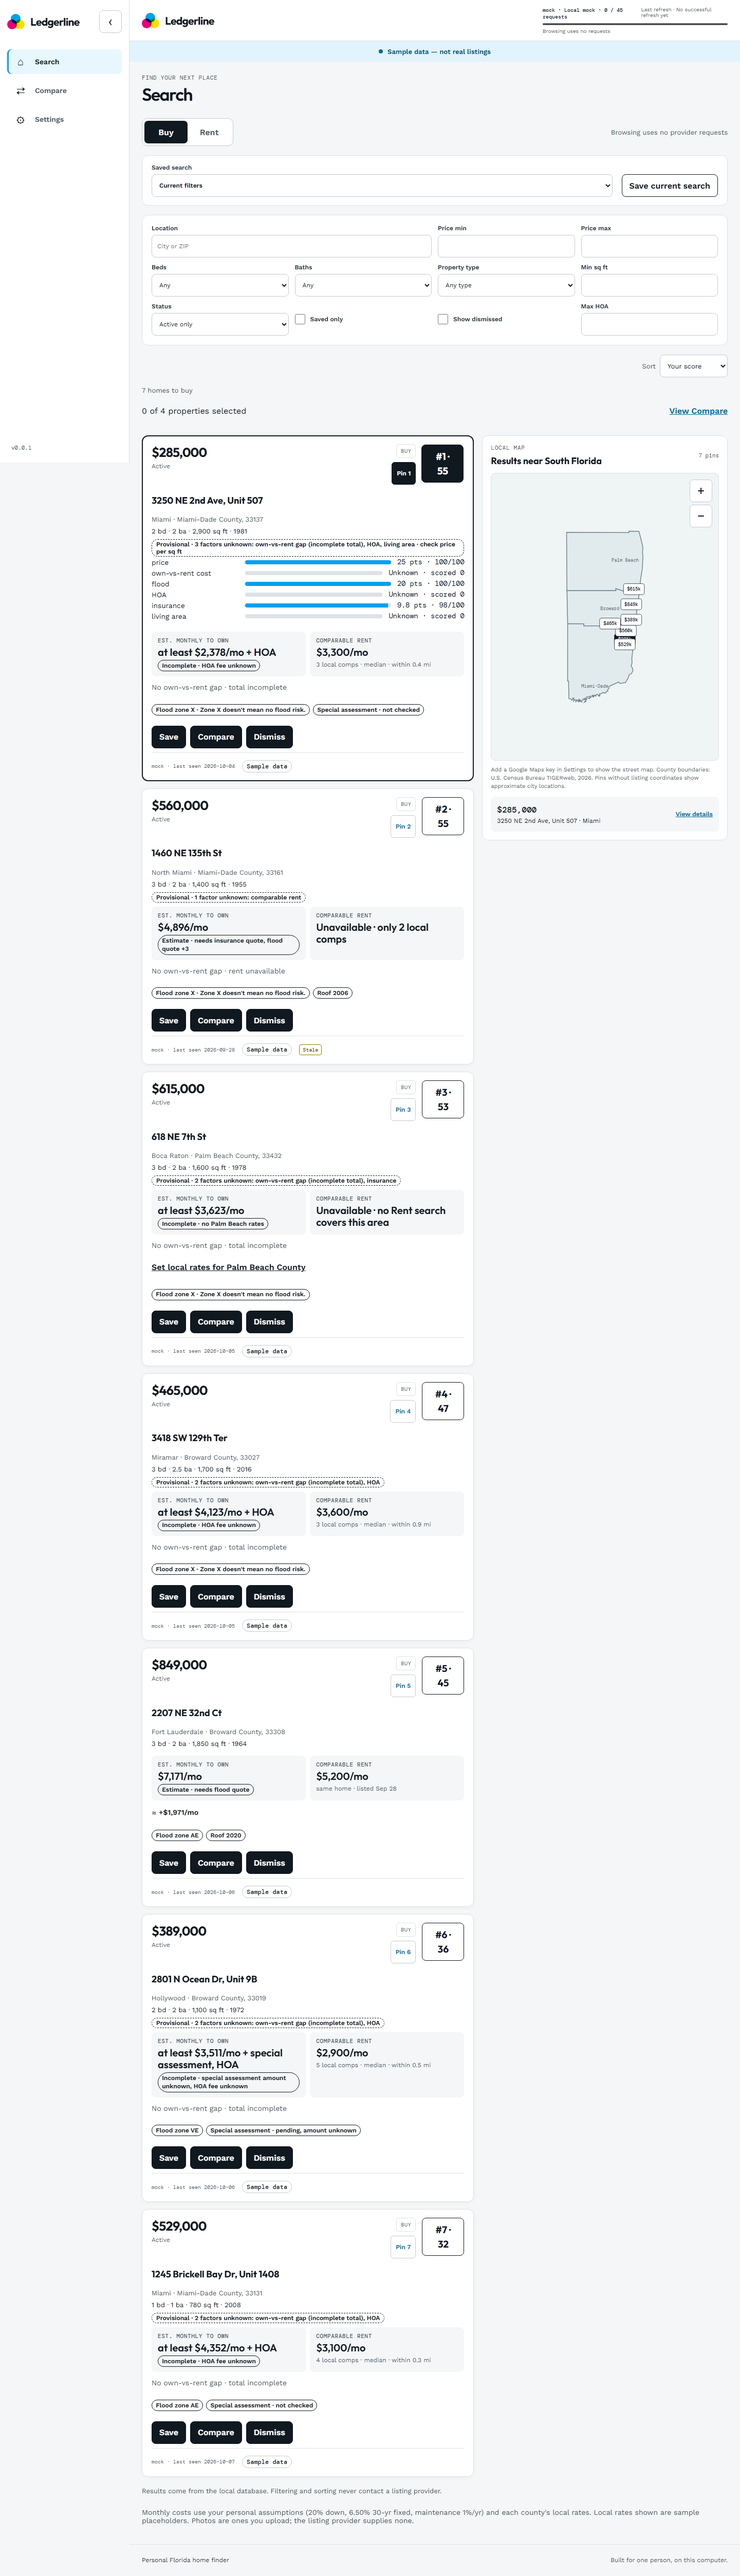
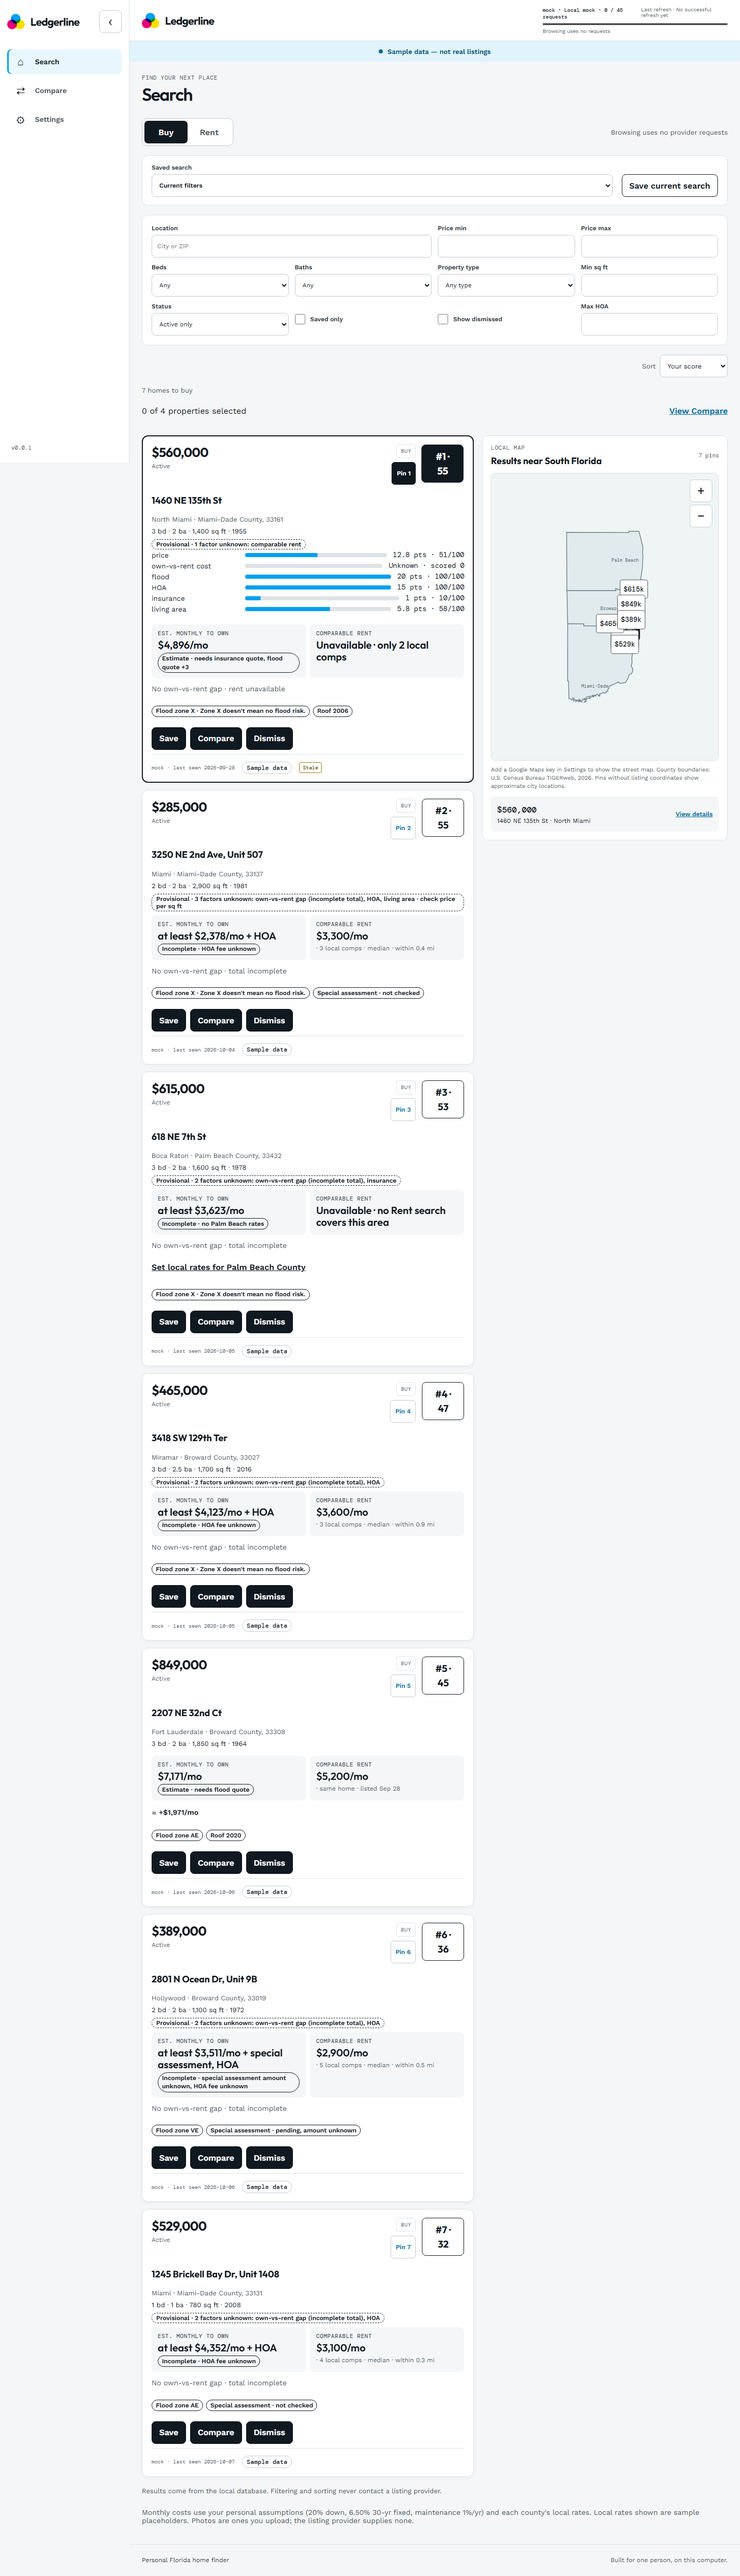
Fix map touch targets and preserve rent source text

diff --git a/apps/web/src/App.tsx b/apps/web/src/App.tsx
@@ -2511,15 +2511,17 @@ function CountyMap({
                   : item.listing.mode === 'sale'
                     ? `$${Math.round(item.listing.price / 1000)}k`
                     : `$${item.listing.price.toLocaleString('en-US')}`;
-              const pinWidth = Math.max(52, pinLabel.length * 8 + 18);
+              // The 600-unit SVG scales down in the panel. Give each native button
+              // enough SVG space to remain at least 44 CSS pixels after scaling.
+              const pinWidth = Math.max(90, pinLabel.length * 12 + 24);
               return (
                 <foreignObject
                   className="map-pin"
-                  height="44"
+                  height="90"
                   key={item.listing.id}
                   width={pinWidth}
                   x={pin.x - pinWidth / 2}
-                  y={pin.y - 22}
+                  y={pin.y - 45}
                 >
                   <button
                     aria-label={`Select ${priceFor(item)}, ${item.property.street}, ${item.property.city}${pin.approximate ? ', approximate city location' : ''}; map pin ${index + 1} of ${items.length}`}
@@ -5225,6 +5227,7 @@ function SearchScreen() {
                                 </span>
                                 {comparableRent.figure.value != null && (
                                   <small>
+                                    {' · '}
                                     {comparableRent.label}
                                     {comparableRent.stale ? ' · Stale' : ''}
                                   </small>

diff --git a/apps/web/src/style.css b/apps/web/src/style.css
@@ -2028,7 +2028,7 @@ h1 {
 .map-pin-button {
   display: flex;
   width: 100%;
-  height: 44px;
+  height: 90px;
   align-items: center;
   justify-content: center;
   padding: 0;
@@ -2038,7 +2038,7 @@ h1 {
 }
 .map-pin-button span {
   display: inline-flex;
-  min-height: 30px;
+  min-height: 50px;
   align-items: center;
   justify-content: center;
   padding: 0 9px;
@@ -2047,7 +2047,7 @@ h1 {
   background: var(--color-surface);
   color: var(--color-ink);
   font-family: var(--font-label);
-  font-size: 12px;
+  font-size: 18px;
   font-weight: 500;
   white-space: nowrap;
 }
